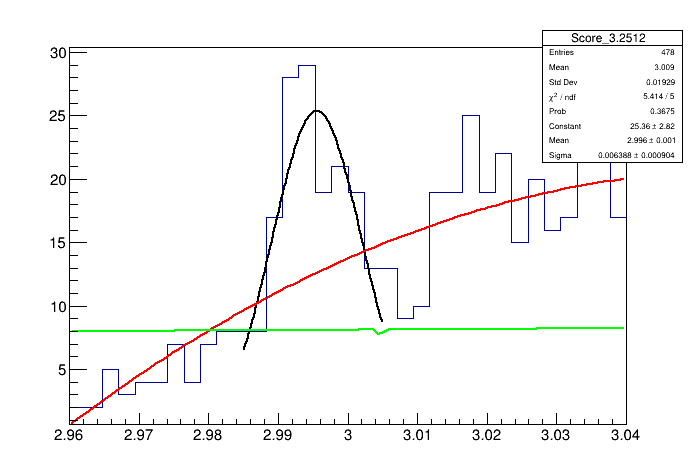
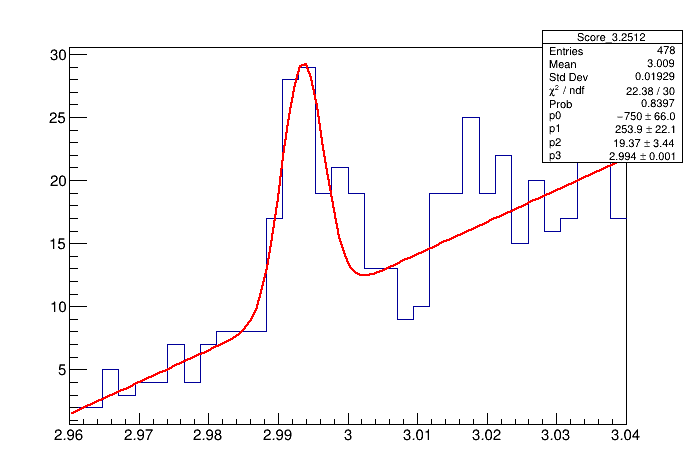
Update mass_fit.cpython-38.pyc, score_2.283.png, and 26 more files...

diff --git a/mass_fit.py b/mass_fit.py
@@ -20,10 +20,14 @@ def mass_fitter(hist,score):
     root_hist.Draw()
     canvas.Draw()
 
-    gaus = ROOT.TF1('gaus','gaus',2.96,3.04)
-    bkg = ROOT.TF1('poly','pol 2',2.96,3.04)
-    total = ROOT.TF1('total','gaus + pol 2',2.96,3.04)
-    
+    #gaus = ROOT.TF1('gaus','gaus',2.96,3.04)
+    #bkg = ROOT.TF1('poly','pol 2',2.96,3.04)
+    total = ROOT.TF1('total','pol1(0) + gaus(2)',2.96,3.04)
+    total.SetParameter(3, 2.99)
+    total.SetParameter(2, 20)
+    total.SetParameter(4, 0.003)
+    total.SetParLimits(4, 0.006, 0.00001)
+    '''
     gaus.SetLineColor( 1 )
     bkg.SetLineColor( 2 )
     total.SetLineColor( 3 )
@@ -36,9 +40,9 @@ def mass_fitter(hist,score):
     poly_par = bkg.GetParameters()
     par[0], par[1], par[2] = gaus_par[0], gaus_par[1], gaus_par[2]
     par[3], par[4], par[5] = poly_par[0], poly_par[1], poly_par[2]
-
-    total.SetParameters(par)
-    root_hist.Fit('total', 'R+','',2.96,3.04 )
+    '''
+    #total.SetParameters(par)
+    root_hist.Fit('total', 'R+', '',2.96,3.04)
 
     ROOT.gStyle.SetOptFit(1111)
     canvas.SaveAs('./images/mass_sys/score_' + str(np.round(score,4)) + '.png')

diff --git a/training.py b/training.py
@@ -118,16 +118,15 @@ plt.show()
 
 #%%
 #Calculate the previous values on range 65-90 %
+import imp
+imp.reload(mass_fit)
+
 min_eff = 0.65
 max_eff = 0.9
 
 scores = score_from_efficiency_array(train_test_data[3],y_pred_test,np.arange(min_eff,max_eff,0.01))
 
 mass_fit.systematic_estimate(data,scores)
-
-#%%
-import imp
-imp.reload(mass_fit)
 
 
 #%%
